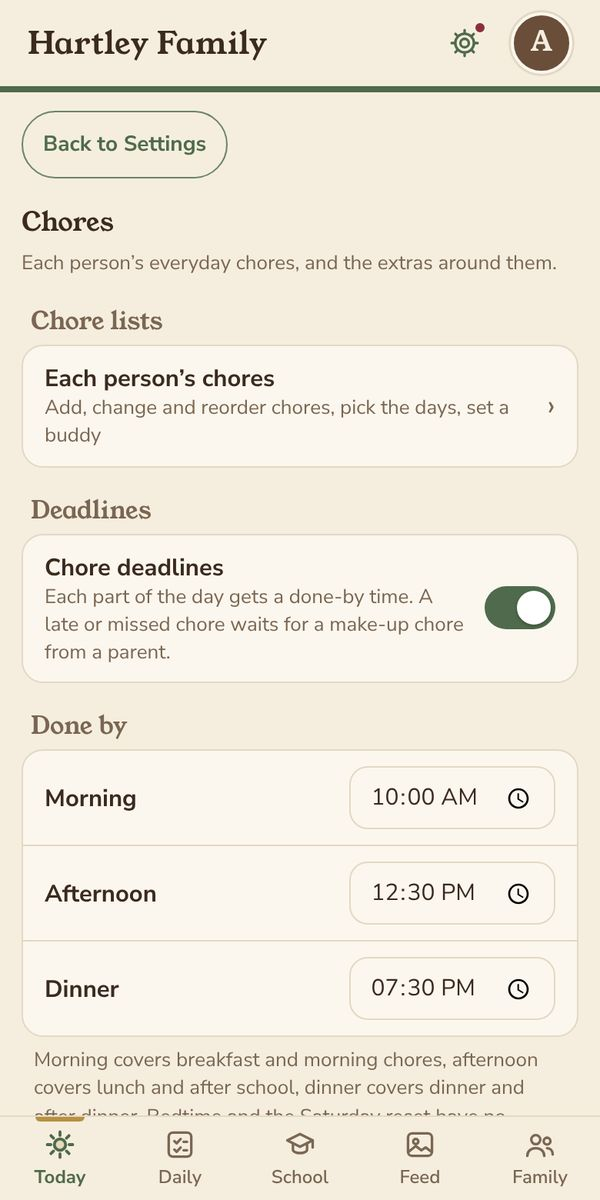
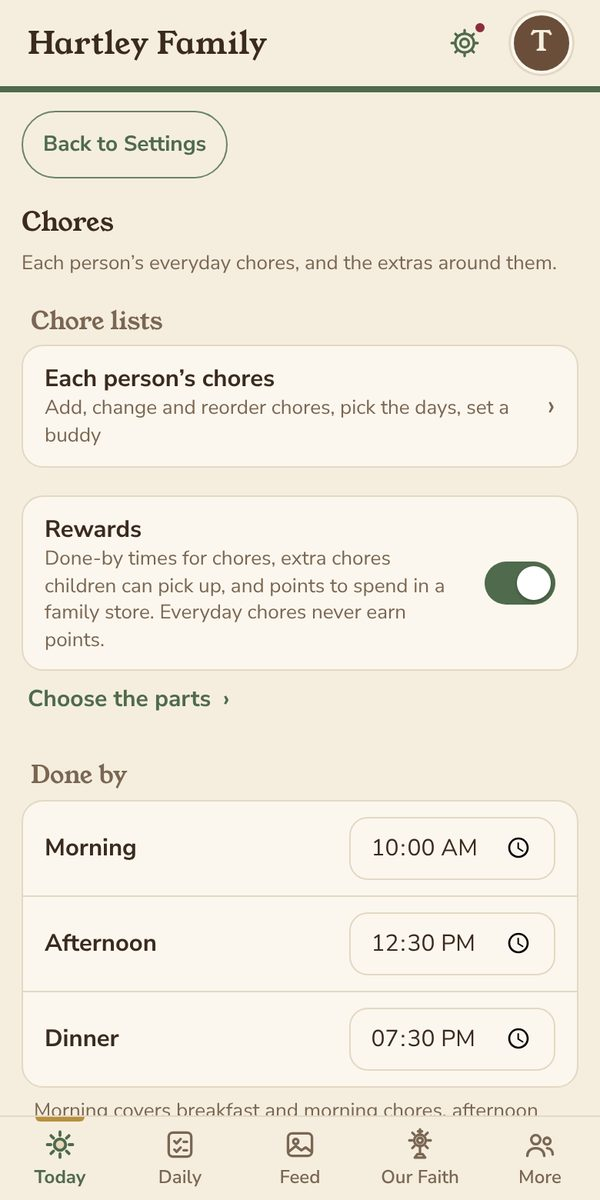
Retake parent screens from Hartley with the new bottom bar
Claude-Session: https://claude.ai/code/session_015jS7JHYAcYwSkH7EbgyXJr

diff --git a/help.html b/help.html
@@ -191,7 +191,7 @@
 <p>Start each child with a short list. You can add more any time.</p>
 <p>Deadlines, extra chores for points and a family store are there too. They are optional and stay off until you turn them on. <a href="/rewards">How rewards work</a>.</p>
 </div>
-<figure class="shot"><img src="/help/img/chore-settings.jpg" alt="Chore settings, with chore lists, deadlines and done-by times for morning, afternoon and dinner" width="600" height="1200" loading="lazy"></figure>
+<figure class="shot"><img src="/help/img/chore-settings.jpg" alt="Chore settings, with chore lists, the Rewards switch and done-by times for morning, afternoon and dinner" width="600" height="1200" loading="lazy"></figure>
 </div></details>
 </section>
 
